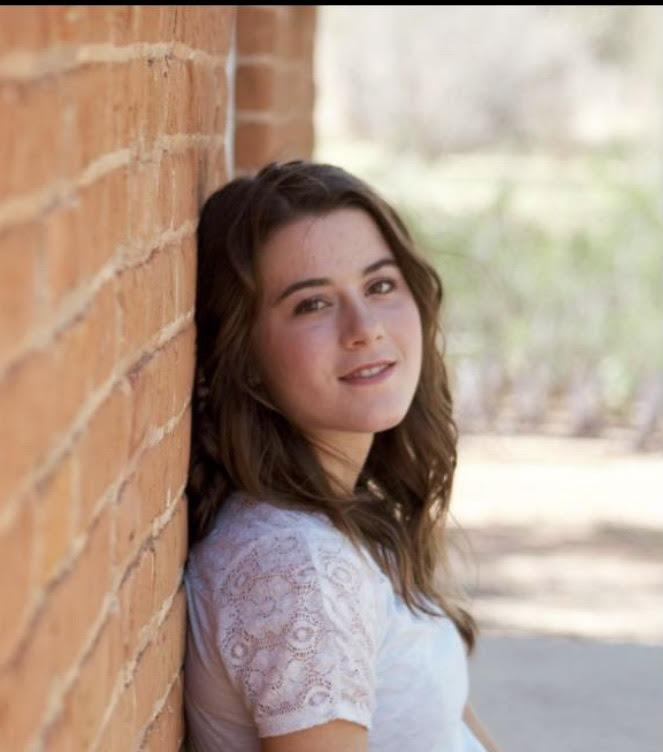
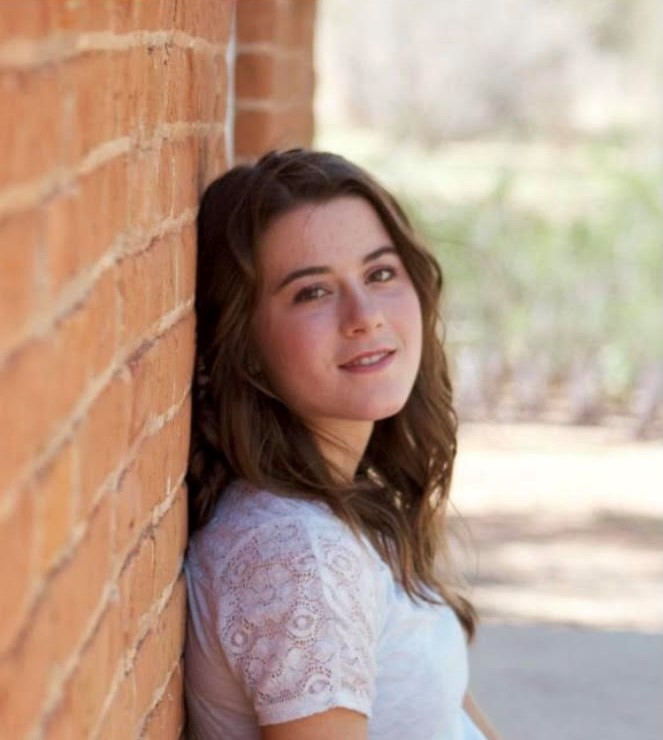
added css

diff --git a/index.html b/index.html
@@ -1,4 +1,4 @@
-<link rel="stylesheet" href="css/normalize.css">
+<!--<link rel="stylesheet" href="css/normalize.css">-->
 <!--OR -->
 <!--<link rel="stylesheet" href="https://cdnjs.cloudflare.com/ajax/libs/normalize/8.0.1/normalize.min.css">-->
 
@@ -12,22 +12,25 @@
         name="Assignment portal for Talitha Brown in WDD 230: Web Frontend Development at Brigham Young University Idaho">
     <link rel="stylesheet" href="css/normalize.css">
     <link rel="stylesheet" href="css/main.css">
-    <script src="scripts/main.js"></script>
+    <link rel="preconnect" href="https://fonts.googleapis.com">
+    <link rel="preconnect" href="https://fonts.gstatic.com" crossorigin>
+    <link href="https://fonts.googleapis.com/css2?family=Irish+Grover&family=Lato:ital@1&display=swap" rel="stylesheet">
 </head>
 
 <body>
+    <img src="photo2018.jpg" alt="Self Portrait" height="300">
     <h1>Talitha Brown</h1>
-    <img src="photo2018.jpg" alt="Self Portrait" width="500" height="600">
     <h2>WDD 230: Assignment Portal</h2>
     <ul>
         <li>Lesson 01: <a href="byui.edu">BYUI Website Placeholder</a></li>
         <li>Lesson 01: <a href="byui.edu">BYUI Website Placeholder</a></li>
     </ul>
+    <footer>
+        <h5> &copy; 2021 | Talitha Brown | Arizona | <a href="https://www.byui.edu/online">BYUI Online Learning</a></h5>
+        <h6 id="updated">date</h6>
+    </footer>
 </body>
 
-<footer>
-    <h5> &copy; 2021 | Talitha Brown | Arizona | <a href="https://www.byui.edu/online">BYUI Online Learning</a></h5>
-    <h6>Last Updated:</h6><h6 id="updated">date</h6>
-</footer>
+<script src="scripts/main.js"></script>
 
 </html>

diff --git a/css/main.css b/css/main.css
@@ -1,0 +1,35 @@
+body {
+    font-family: "Lato", Helvetica, sans-serif;
+    margin: 15px;
+}
+
+h1 {
+    background-color: #cb997e;
+    font-family: "Irish Grover", Helvetica, sans-serif;
+    text-align: center;
+    font-size: 3em;
+    padding: 20px;
+    border-radius: 15px;
+}
+
+h2 {
+    margin: 15px;
+}
+
+ul {
+    margin: 15px;
+}
+
+img {
+    float: right;
+    margin: 15px;
+    border-radius: 15px;
+}
+
+footer {
+    background-color: #cb997e;
+    padding: 5px;
+    border-radius: 15px;
+    text-align: center;
+    line-height: 50%;
+}

diff --git a/scripts/main.js b/scripts/main.js
@@ -1,3 +1,3 @@
-let modifiedDate = new Date(document.lastModified);
+// let modifiedDate = new Date(document.lastModified);
 
-document.getElementById("updated").innerHTML = modifiedDate;
+document.getElementById("updated").innerHTML = `Last Updated: ${document.lastModified}`;
